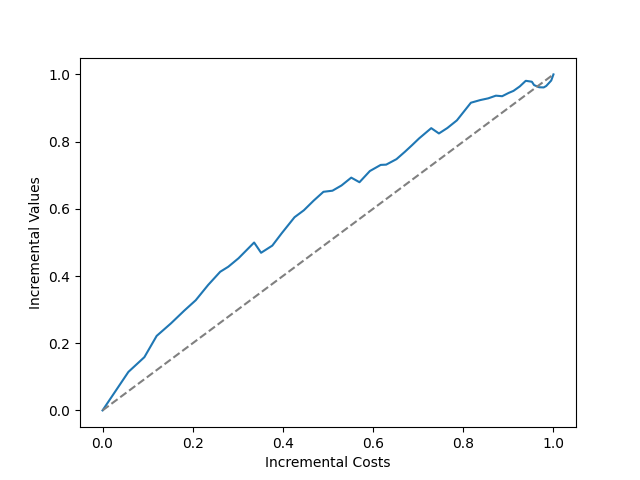
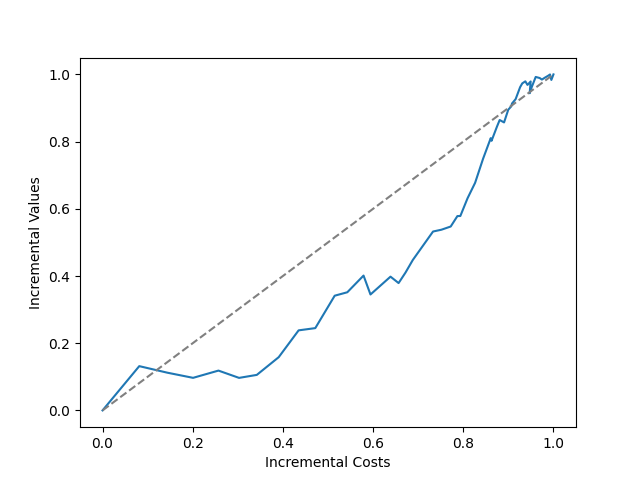
検証

diff --git a/src/model/direct.py b/src/model/direct.py
@@ -26,7 +26,6 @@ class TrainDirectDataset(Dataset):  # type: ignore
         self.X_control = X[T == 0]
         self.y_r_control = y_r[T == 0]
         self.y_c_control = y_c[T == 0]
-
         # teratment_idxからcontrol_idxをランダム二つ選択する辞書を作成
         self.treatment_idx_to_control_idx = {}
         # unused_control_idx = set(list(range(len(self.X_control))))
@@ -40,77 +39,42 @@ class TrainDirectDataset(Dataset):  # type: ignore
             )
             self.treatment_idx_to_control_idx[i] = control_idx_i
             # unused_control_idx -= set(control_idx_i)
-
     def __len__(self) -> int:
         return len(self.X_treated)
 
     def __getitem__(
         self, idx: int
-    ) -> Tuple[
-        NDArray[Any],
-        NDArray[Any],
-        NDArray[Any],
-        NDArray[Any],
-        NDArray[Any],
-        NDArray[Any],
-        int,
-    ]:
+    ) -> Tuple[NDArray[Any], NDArray[Any], NDArray[Any], NDArray[Any]]:
         # treatmentのデータを取得
-        X_treated = self.X_treated[idx]
-        y_r_treated = self.y_r_treated[idx]
-        y_c_treated = self.y_c_treated[idx]
-
+        X_treated = self.X_treated[idx].reshape(1, -1)
+        y_r_treated = self.y_r_treated[idx].reshape(-1)
+        y_c_treated = self.y_c_treated[idx].reshape(-1)
         # controlのデータを取得
         control_idx = self.treatment_idx_to_control_idx[idx]
         X_control = self.X_control[control_idx]
         y_r_control = self.y_r_control[control_idx]
         y_c_control = self.y_c_control[control_idx]
 
-        # X = np.concatenate([X_treated, X_control], axis=0)
-        # T = np.concatenate([np.ones(len(X_treated)), np.zeros(len(X_control))], axis=0)
-        # y_r = np.concatenate([y_r_treated, y_r_control], axis=0)
-        # y_c = np.concatenate([y_c_treated, y_c_control], axis=0)
+        X = np.concatenate([X_treated, X_control], axis=0)
+        T = np.concatenate([np.ones(len(X_treated)), np.zeros(len(X_control))], axis=0)
+        y_r = np.concatenate([y_r_treated, y_r_control], axis=0)
+        y_c = np.concatenate([y_c_treated, y_c_control], axis=0)
 
-        return (
-            X_treated,
-            y_r_treated,
-            y_c_treated,
-            X_control,
-            y_r_control,
-            y_c_control,
-            self.ratio,
-        )
-
+        return (X, T, y_r, y_c)
 
 class DirectCollator:
-    def __call__(
-        self, batch: list[Any]
-    ) -> Dict[str, torch.Tensor]:
+    def __call__(self, batch: list[Any]) -> Dict[str, torch.Tensor]:
         # バッチを作成
-        # X = torch.cat([torch.tensor(x[0], dtype=torch.float32) for x in batch], dim=0)
-        # T = torch.cat([torch.tensor(x[1], dtype=torch.float32) for x in batch], dim=0)
-        # y_r = torch.cat([torch.tensor(x[2], dtype=torch.float32) for x in batch], dim=0)
-        # y_c = torch.cat([torch.tensor(x[3], dtype=torch.float32) for x in batch], dim=0)
+        X = torch.cat([torch.tensor(x[0], dtype=torch.float32) for x in batch], dim=0)
+        T = torch.cat([torch.tensor(x[1], dtype=torch.float32) for x in batch], dim=0)
+        y_r = torch.cat([torch.tensor(x[2], dtype=torch.float32) for x in batch], dim=0)
+        y_c = torch.cat([torch.tensor(x[3], dtype=torch.float32) for x in batch], dim=0)
 
-        X_treated = torch.tensor([x[0] for x in batch], dtype=torch.float32)
-        y_r_treated = torch.tensor([x[1] for x in batch], dtype=torch.float32)
-        y_c_treated = torch.tensor([x[2] for x in batch], dtype=torch.float32)
-        X_control = torch.tensor([x[3] for x in batch], dtype=torch.float32)
-        y_r_control = torch.tensor([x[4] for x in batch], dtype=torch.float32)
-        y_c_control = torch.tensor([x[5] for x in batch], dtype=torch.float32)
-
-        N, D = X_treated.shape
-        ratio = batch[0][6]
-        X_control = X_control.reshape(N * ratio, D)
-        y_r_control = y_r_control.reshape(N * ratio, 1)
-        y_c_control = y_c_control.reshape(N * ratio, 1)
         return {
-            "X_treated": X_treated,
-            "y_r_treated": y_r_treated,
-            "y_c_treated": y_c_treated,
-            "X_control": X_control,
-            "y_r_control": y_r_control,
-            "y_c_control": y_c_control,
+            "X": X,
+            "T": T,
+            "y_r": y_r,
+            "y_c": y_c,
         }
 
 
@@ -125,7 +89,7 @@ class TestDirectDataset(Dataset):  # type: ignore
         return len(self.X)
 
     def __getitem__(self, idx: int) -> Dict[str, torch.Tensor]:
-        return {"X_treated": self.X[idx]}
+        return {"X": self.X[idx]}
 
 
 # 非線形モデルの定義
@@ -136,45 +100,39 @@ class DirectNonLinear(nn.Module):
         self.fc2 = nn.Linear(2 * input_dim, input_dim)
         self.fc3 = nn.Linear(input_dim, int(0.5 * input_dim))
         self.fc4 = nn.Linear(int(0.5 * input_dim), 1)
-
     def forward(
         self,
-        X_treated: torch.Tensor,
-        y_r_treated: Optional[torch.Tensor] = None,
-        y_c_treated: Optional[torch.Tensor] = None,
-        X_control: Optional[torch.Tensor] = None,
-        y_r_control: Optional[torch.Tensor] = None,
-        y_c_control: Optional[torch.Tensor] = None,
+        X: torch.Tensor,
+        T: Optional[torch.Tensor] = None,
+        y_r: Optional[torch.Tensor] = None,
+        y_c: Optional[torch.Tensor] = None,
     ) -> Dict[str, torch.Tensor]:
-        # pred = self._predict(X)
-        if (
-            X_control is not None
-            and y_r_treated is not None
-            and y_r_control is not None
-            and y_c_treated is not None
-            and y_c_control is not None
-        ):
-            q_treated = self._predict(X_treated)
-            q_control = self._predict(X_control)
+        pred = self._predict(X)
+        if T is not None and y_r is not None and y_c is not None:
+            treated_mask = T == 1
+            X_treated = X[treated_mask]
+            y_r_treated = y_r[treated_mask]
+            y_c_treated = y_c[treated_mask]
+            q_treated = self._predict(X_treated).squeeze()
+            control_mask = T == 0
+            X_control = X[control_mask]
+            y_r_control = y_r[control_mask]
+            y_c_control = y_c[control_mask]
+            q_control = self._predict(X_control).squeeze()
 
             loss_1 = custom_loss(y_r_treated, y_c_treated, q_treated, X_treated.size(0))
             loss_0 = custom_loss(y_r_control, y_c_control, q_control, X_control.size(0))
             loss = loss_1 - loss_0
 
-            return {"loss": loss}
+            return {"pred": pred, "loss": loss}
         else:
-            pred = self._predict(X_treated)
             return {"pred": pred}
-
     def _predict(self, x: torch.Tensor) -> torch.Tensor:
         x = torch.relu(self.fc1(x))
         x = torch.relu(self.fc2(x))
         x = torch.relu(self.fc3(x))
         x = torch.sigmoid(self.fc4(x))
-
         return x
-
-
 # 損失関数の定義
 def custom_loss(
     y_r: torch.Tensor, y_c: torch.Tensor, q: torch.Tensor, group_size: int
@@ -183,8 +141,6 @@ def custom_loss(
     logit_q = torch.log(q / (1 - q))
     loss = -torch.sum(y_r * logit_q + y_c * torch.log(1 - q)) / group_size
     return loss
-
-
 # def plot_loss(loss_history: list, loss_history_val: list) -> None:
 #     plt.plot(loss_history, label="Train")
 #     plt.plot(loss_history_val, label="Validation")

diff --git a/src/trainer.py b/src/trainer.py
@@ -24,7 +24,7 @@ class Trainer:
         self.lr = lr
 
     def train(
-        self, train_dl: DataLoader, val_dl: DataLoader, model: nn.Module
+        self, train_dl: DataLoader, val_dl: DataLoader, model: nn.Module # type: ignore
     ) -> nn.Module:  # type: ignore
         optimizer = optim.Adam(model.parameters(), lr=self.lr)
         lambda_scheduler = lr_scheduler.LambdaLR(
@@ -40,9 +40,7 @@ class Trainer:
             average_loss = 0
             total = len(train_dl)
             desc = f"Epoch {epoch} AVG Loss: {average_loss:.4f}"
-            for batch in tqdm(
-                train_dl, desc=desc, leave=False
-            ):
+            for batch in tqdm(train_dl, desc=desc, leave=False):
                 optimizer.zero_grad()
                 output = model(**batch)
                 output["loss"].backward()

diff --git a/src/evaluate/evaluate.py b/src/evaluate/evaluate.py
@@ -34,8 +34,11 @@ def calculate_values(
     # nanがあれば0に変換
     incremental_costs = np.array(incremental_costs)
     incremental_values = np.array(incremental_values)
+    incremental_costs[np.isnan(incremental_costs)] = 0
+    incremental_values[np.isnan(incremental_values)] = 0
     incremental_costs[0] = 0
     incremental_values[0] = 0
+    import pdb; pdb.set_trace()
 
     return incremental_costs, incremental_values
 

diff --git a/train.py b/train.py
@@ -12,8 +12,8 @@ def train() -> None:
     n_features = 8
     std = 1.0
     num_epochs = 150
-    lr = 0.0001
-    batch_size = 128
+    lr = 0.00001
+    batch_size = 64
     model_name = "Direct"
     model_params = {"input_dim": n_features}
     dataset = DatasetGenerator(n_samples, n_features, std, seed)

diff --git a/src/model/common.py b/src/model/common.py
@@ -23,7 +23,7 @@ def make_loader(
     batch_size: int,
     train_flg: bool,
     seed: int,
-) -> DataLoader:
+) -> DataLoader: # type: ignore
     collator = None
     if model_name == "SLearner":
         ds = SlearnerDataset(
